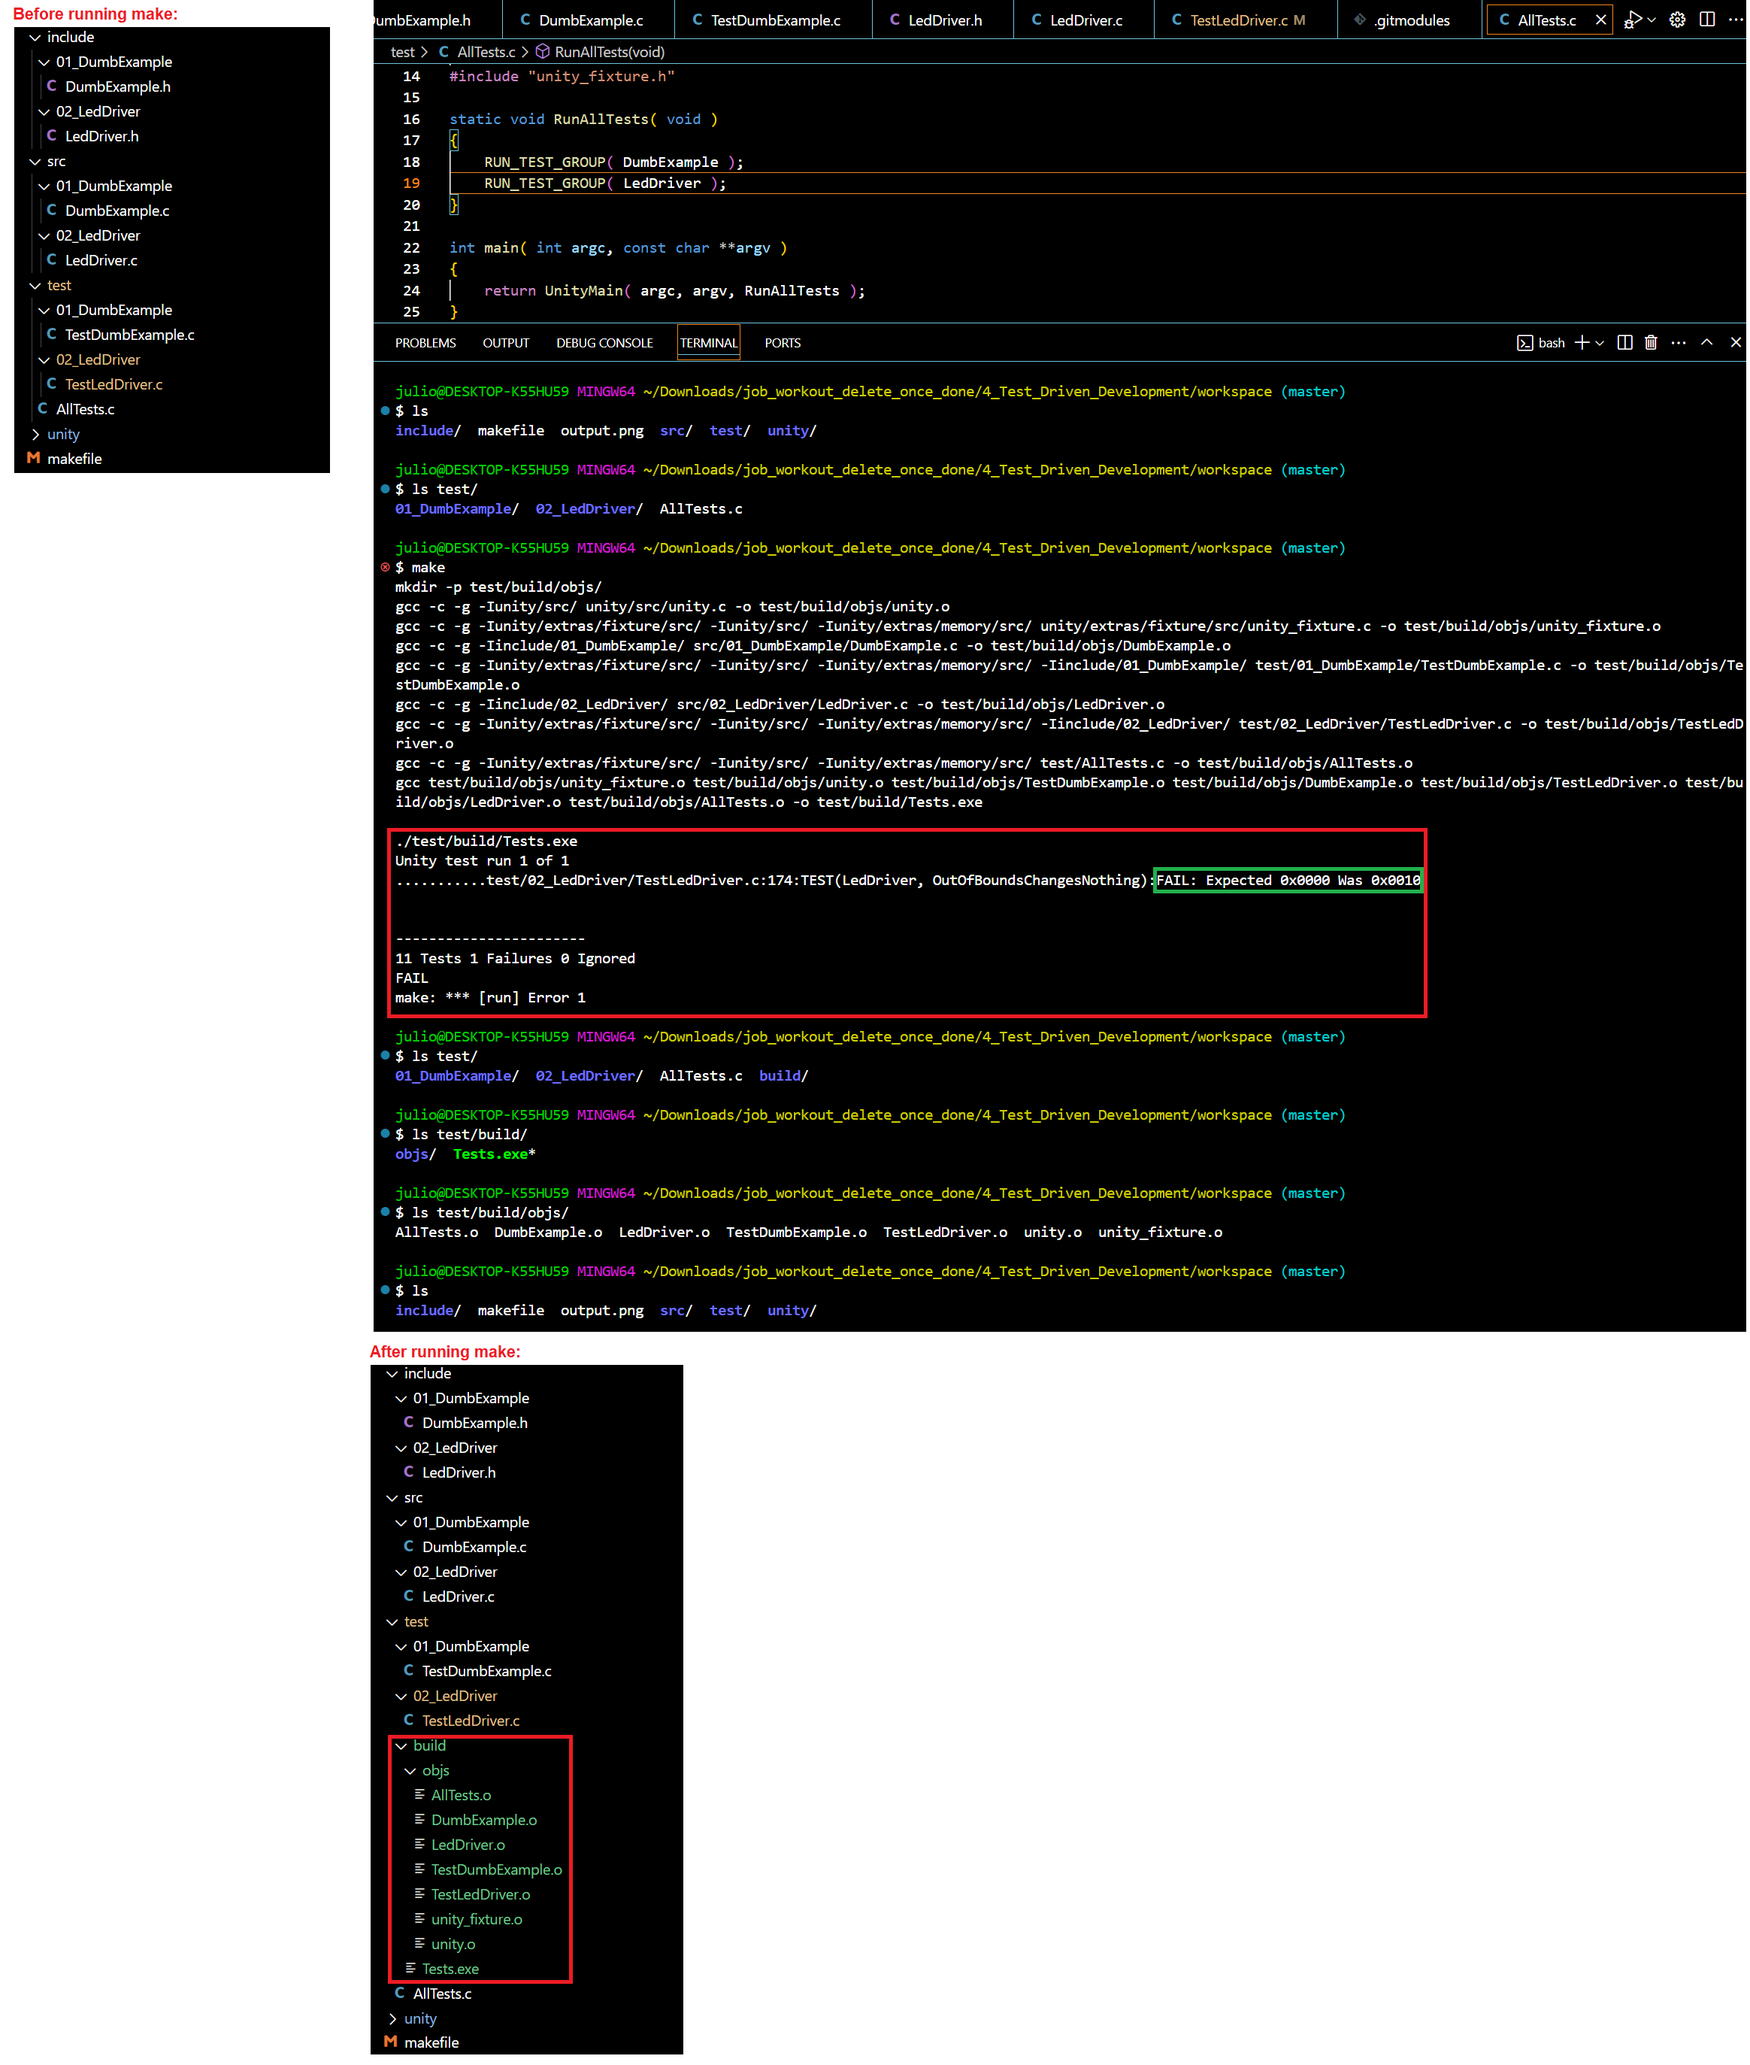
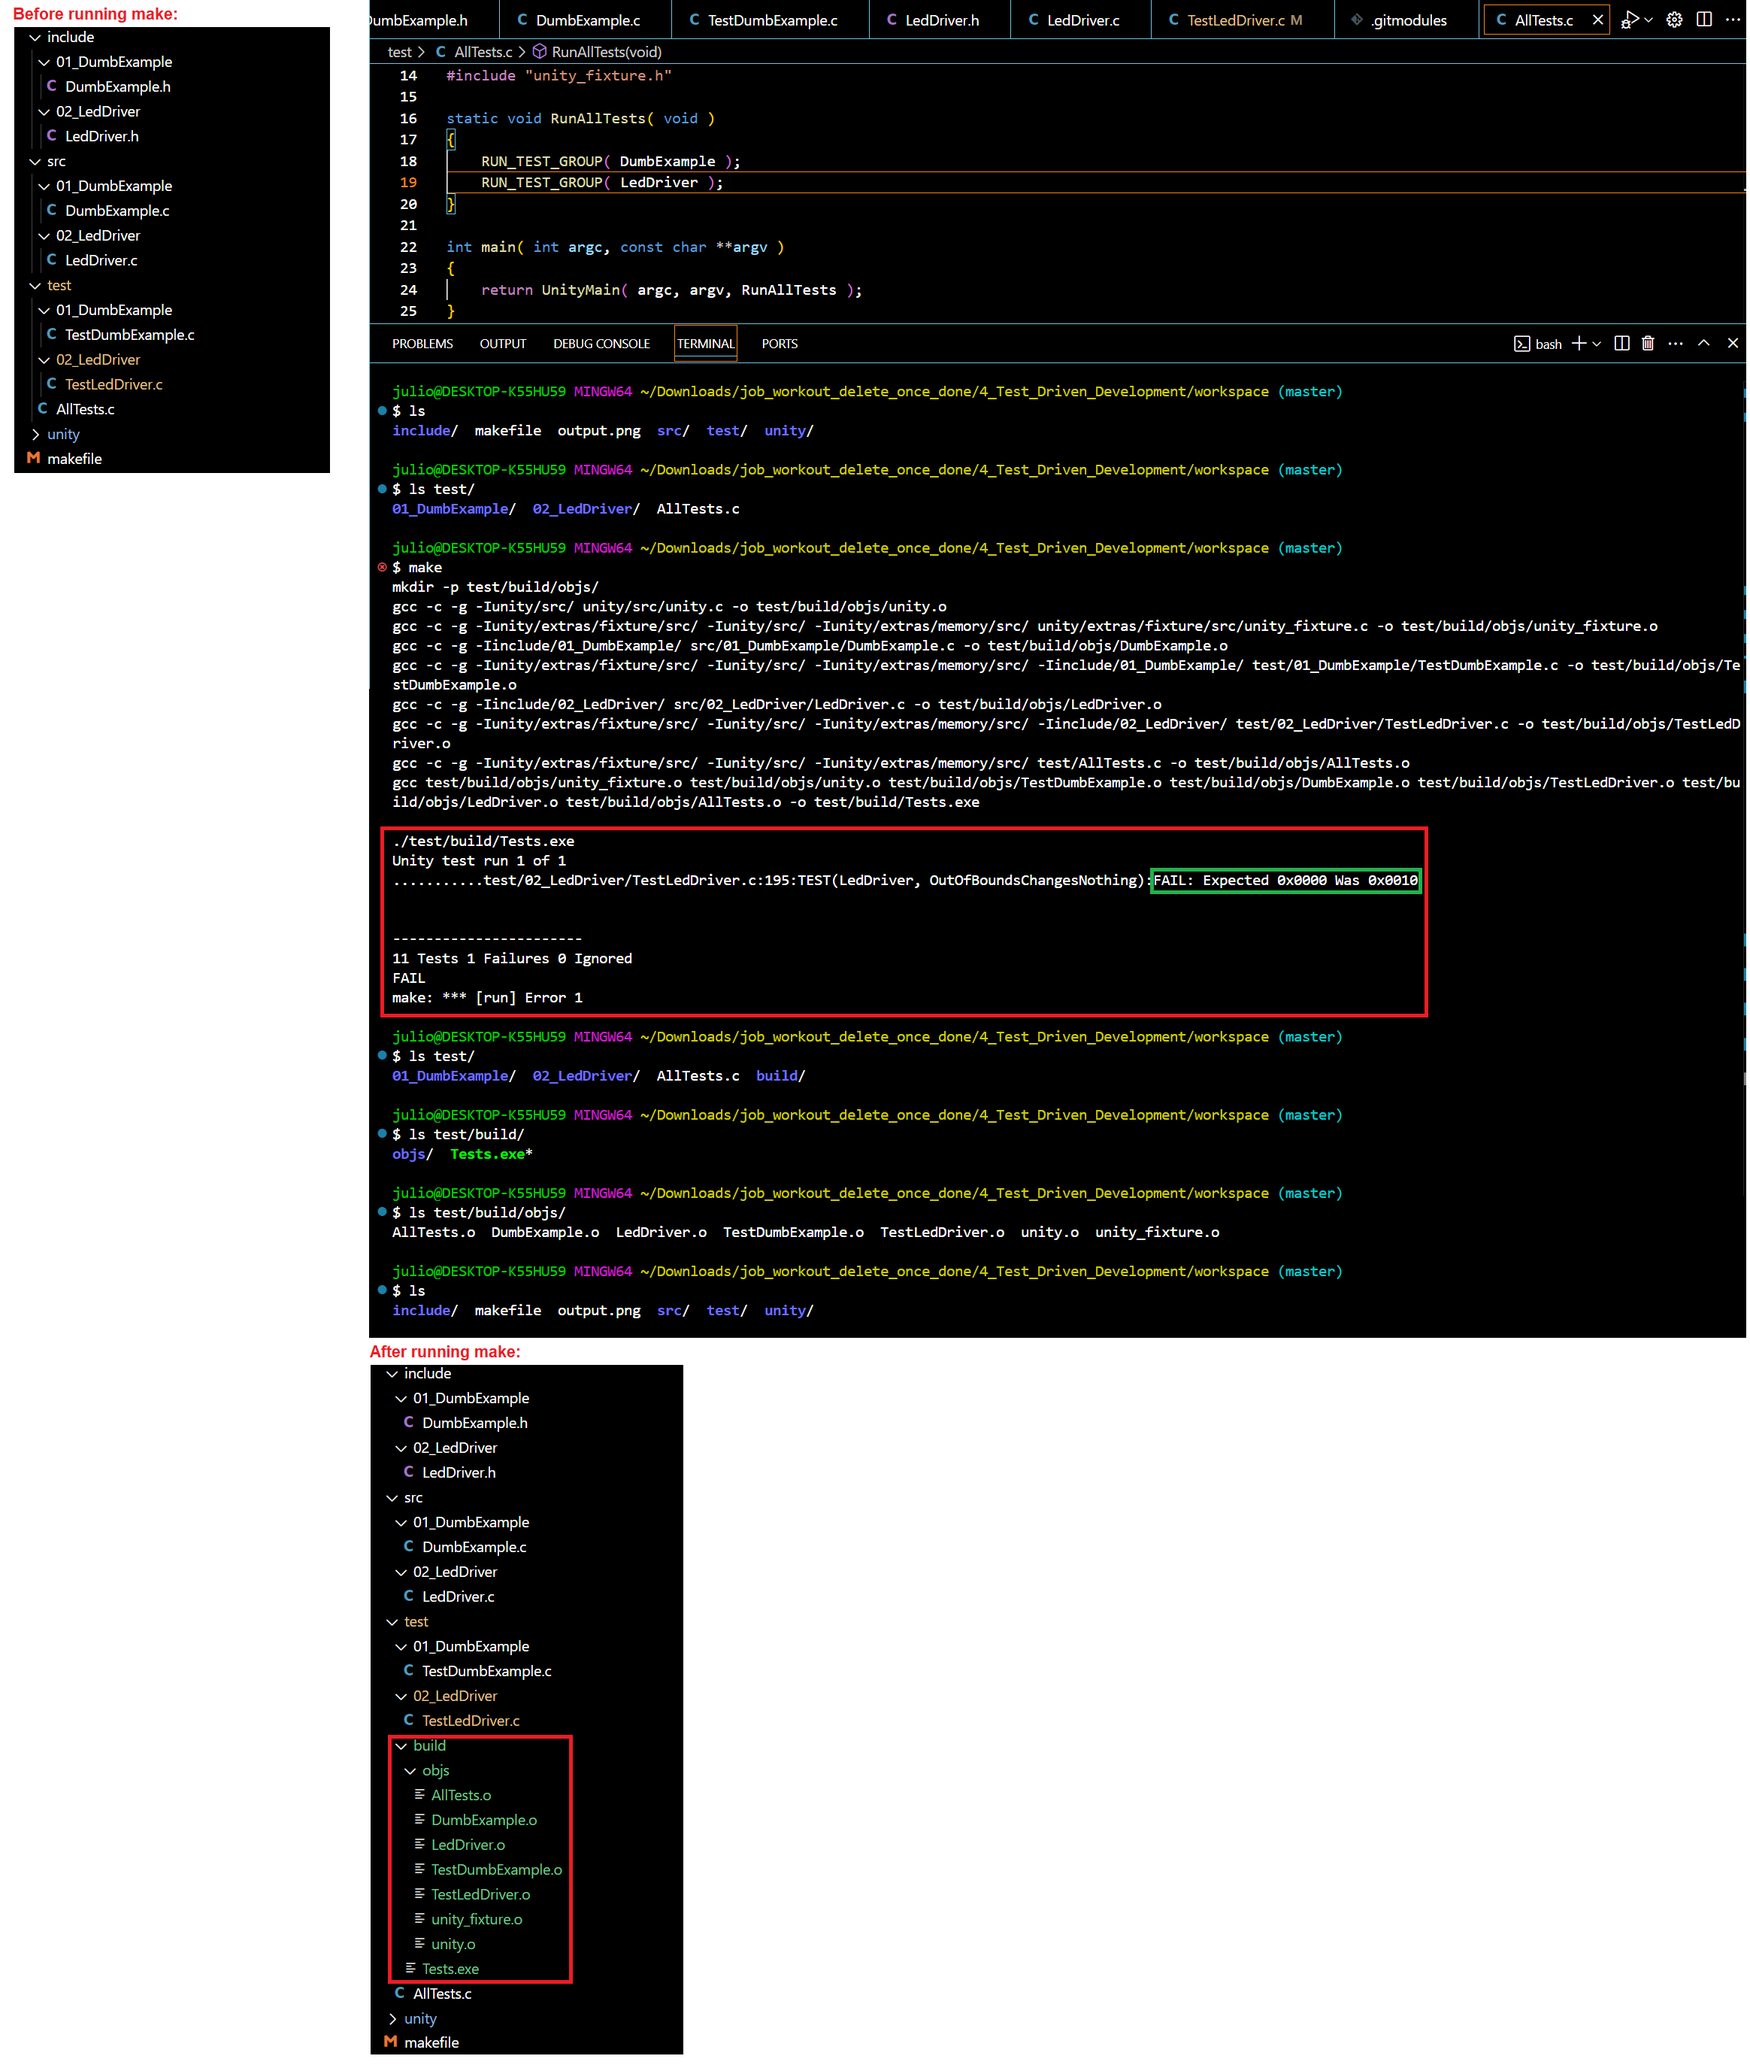
Update LedDriver (failing) OutOfBoundsChangesNothing test for LedDriver_TurnOn()

diff --git a/test/02_LedDriver/TestLedDriver.c b/test/02_LedDriver/TestLedDriver.c
@@ -163,15 +163,36 @@ TEST( LedDriver, UpperAndLowerBounds )
 TEST( LedDriver, OutOfBoundsChangesNothing )
 {
    /* this test exercises the LedDriver with some fence-post values
-      and a way out-of-bounds value */
-   LedDriver_TurnOn( -1 );
-   LedDriver_TurnOn( 0 );
-   LedDriver_TurnOn( 17 );
-   LedDriver_TurnOn( 3141 );
+      and a way out-of-bounds value.
+      If everything was well done, then nothing should have happened
+      when writing out of the legal LED values...
+      however this was not the case:
+      
+      By including the assertion after each LedDriver_TurnOn(), the test results
+      show that LedDriver_TurnOn( 3141 ) is the source of the failure.
+      This actually results in virtualLeds being set to 0x10, in other words,
+      it sets the bit associated with LED 5. 5 is the remainder of 3141 divided by 32.
 
-   /* if everything was well done, then nothing should have happened
-      when writing out of the legal LED values */
-   TEST_ASSERT_EQUAL_HEX16( 0, virtualLeds );
+      In conclusion Bit shifting actually rotates the bit through a 32-bit int,
+      to confirm this, turn on LED 33, this results in the low order bit being set (0x01).
+
+      Notice also that turning on LED 17 causes no problem, so the bit shifting does not
+      rotate the bit through a 16-bit int, this supports the theory of the 32-bit int rotation */
+      
+   LedDriver_TurnOn( -1 );
+   TEST_ASSERT_EQUAL_HEX16( 0, virtualLeds ); /* does this cause the test to fail? */
+
+   LedDriver_TurnOn( 0 );
+   TEST_ASSERT_EQUAL_HEX16( 0, virtualLeds ); /* or does this cause the test to fail? */
+
+   LedDriver_TurnOn( 17 );
+   TEST_ASSERT_EQUAL_HEX16( 0, virtualLeds ); /* or does this cause the test to fail? */
+
+   // LedDriver_TurnOn( 33 );
+   // TEST_ASSERT_EQUAL_HEX16( 0, virtualLeds ); /* or does this cause the test to fail? */
+
+   LedDriver_TurnOn( 3141 );
+   TEST_ASSERT_EQUAL_HEX16( 0, virtualLeds ); /* or does this cause the test to fail? */
 }
 
 TEST_GROUP_RUNNER( LedDriver )
